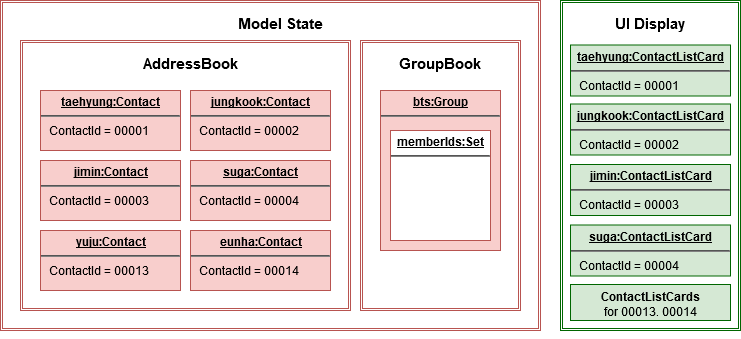
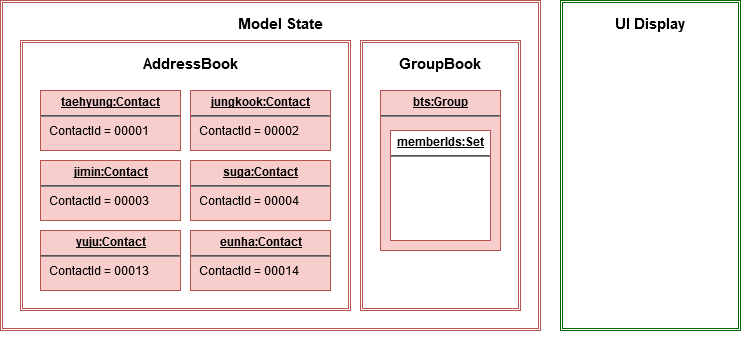
Rebuild pages at 908591f07c8498653067f03ff827a27aebe3cd36

Changed region(s): [[0.7449, 0.118, 0.9933, 0.944]]

diff --git a/DeveloperGuide.html b/DeveloperGuide.html
@@ -484,7 +484,7 @@ As an additional feature to be implemented in the future, we can store a <code>T
 <h3 id="Design-Storage"><a class="link" href="#Design-Storage">2.5. Storage component</a></h3>
 <div class="imageblock">
 <div class="content">
-<img src="images/StorageArchitectureDiagram.png" alt="StorageArchitectureDiagram">
+<img src="images/StorageClassDiagram.png" alt="StorageClassDiagram">
 </div>
 <div class="title">Figure 15. Structure of the Storage Component</div>
 </div>
@@ -777,8 +777,9 @@ would interact with <code>GroupCommand</code> and <code>GroupModel</code> state.
 <div class="paragraph">
 <p>The <code>GroupBook</code> model state now contains a <code>Group</code> instance for "BTS" with no members
  recorded as memberIds.
- A group with no members would not prompt the <code>UI</code> to display the contacts in the group
- while a group with members in it would cause <code>UI</code> to display all the contacts belonging
+Any command regarding <code>Group</code> would prompt the <code>UI</code> to display the contacts in the group.
+ A group with no members would cause the <code>UI</code> to be empty. As there are no contacts in the group.
+ While a group with members in it would cause <code>UI</code> to display all the contacts belonging
  to that group.</p>
 </div>
 <div class="paragraph">
@@ -798,7 +799,7 @@ would interact with <code>GroupCommand</code> and <code>GroupModel</code> state.
 </div>
 <div class="paragraph">
 <p>Step 4. The user realizes she has made a mistake adding a wrong contact and in a fit of rage
- chooses to delete the contact instead of merely removing from the Group.
+ chooses to delete the contact instead of merely removing the contact from the Group.
  Executing <code>contact delete --i 00013</code>
  which then deletes the <code>Contact</code> with contactId of 00013.
  However, this does not remove the contact&#8217;s id from
@@ -2053,4 +2054,4 @@ Expected: Similar to previous.</p>
 </div>
 </div>
 </div>
-</div></div><div id="footer"><div class="container"><div id="footer-text">Last updated 2019-10-26 18:41:18 UTC</div></div></div></body></html>
+</div></div><div id="footer"><div class="container"><div id="footer-text">Last updated 2019-10-27 13:12:36 UTC</div></div></div></body></html>

diff --git a/index.html b/index.html
@@ -5,7 +5,7 @@
 <div class="paragraph">
 <p><a href="https://travis-ci.org/AY1920S1-CS2103T-F12-3/main"><span class="image"><img src="https://travis-ci.org/AY1920S1-CS2103T-F12-3/main.svg?branch=master" alt="Build Status"></span></a>
 <a href="https://ci.appveyor.com/project/damithc/addressbook-level3"><span class="image"><img src="https://ci.appveyor.com/api/projects/status/3boko2x2vr5cc3w2?svg=true" alt="Build status"></span></a>
-<a href="https://coveralls.io/github/se-edu/addressbook-level3?branch=master"><span class="image"><img src="https://coveralls.io/repos/github/se-edu/addressbook-level3/badge.svg?branch=master" alt="Coverage Status"></span></a>
+<a href="https://coveralls.io/github/AY1920S1-CS2103T-F12-3/main?branch=master"><span class="image"><img src="https://coveralls.io/repos/github/AY1920S1-CS2103T-F12-3/main/badge.svg?branch=master" alt="Coverage Status"></span></a>
 <a href="https://www.codacy.com/app/damith/addressbook-level3?utm_source=github.com&amp;utm_medium=referral&amp;utm_content=se-edu/addressbook-level3&amp;utm_campaign=Badge_Grade"><span class="image"><img src="https://api.codacy.com/project/badge/Grade/fc0b7775cf7f4fdeaf08776f3d8e364a" alt="Codacy Badge"></span></a>
 <a href="https://gitter.im/se-edu/Lobby"><span class="image"><img src="https://badges.gitter.im/se-edu/Lobby.svg" alt="Gitter chat"></span></a></p>
 </div>
@@ -73,4 +73,4 @@ Want a CLI note-taking app befitting of the techie that you are?</p>
 <div class="sectionbody">
 
 </div>
-</div></div><div id="footer"><div class="container"><div id="footer-text">Last updated 2019-10-26 18:41:18 UTC</div></div></div></body></html>
+</div></div><div id="footer"><div class="container"><div id="footer-text">Last updated 2019-10-27 13:12:36 UTC</div></div></div></body></html>

diff --git a/ContactUs.html b/ContactUs.html
@@ -6,4 +6,4 @@
 <p><strong>Bug reports, Suggestions</strong> : Post in our <a href="https://github.com/AY1920S1-CS2103T-F12-3/main/issues">issue tracker</a> if you noticed bugs or have suggestions on how to improve.</p>
 </li>
 </ul>
-</div></div><div id="footer"><div class="container"><div id="footer-text">Last updated 2019-10-26 18:41:18 UTC</div></div></div></body></html>
+</div></div><div id="footer"><div class="container"><div id="footer-text">Last updated 2019-10-27 13:12:36 UTC</div></div></div></body></html>

diff --git a/tutorials/RemovingFields.html b/tutorials/RemovingFields.html
@@ -175,4 +175,4 @@ While keeping the <code>address</code> field in the json files does not cause th
 <p>You can go through each individual <code>json</code> file and manually remove the <code>address</code> field.</p>
 </div>
 </div>
-</div></div><div id="footer"><div class="container"><div id="footer-text">Last updated 2019-10-26 18:41:18 UTC</div></div></div></body></html>
+</div></div><div id="footer"><div class="container"><div id="footer-text">Last updated 2019-10-27 13:12:36 UTC</div></div></div></body></html>

diff --git a/Testing.html b/Testing.html
@@ -90,4 +90,4 @@ e.g. <code>seedu.address.logic.LogicManagerTest</code></p>
 <div class="title">Figure 1. <code>Accessibility</code> permission is granted to <code>IntelliJ IDEA</code></div>
 </div>
 </div>
-</div></div><div id="footer"><div class="container"><div id="footer-text">Last updated 2019-10-26 18:41:18 UTC</div></div></div></body></html>
+</div></div><div id="footer"><div class="container"><div id="footer-text">Last updated 2019-10-27 13:12:36 UTC</div></div></div></body></html>

diff --git a/tutorials/AddRemark.html b/tutorials/AddRemark.html
@@ -616,4 +616,4 @@ In this case, <code>CommandTestUtil#assertCommandSuccess</code> is the best fit 
 <p>This concludes the tutorial for adding a new <code>Command</code> to AddressBook.</p>
 </div>
 </div>
-</div></div><div id="footer"><div class="container"><div id="footer-text">Last updated 2019-10-26 18:41:18 UTC</div></div></div></body></html>
+</div></div><div id="footer"><div class="container"><div id="footer-text">Last updated 2019-10-27 13:12:36 UTC</div></div></div></body></html>

diff --git a/AboutUs.html b/AboutUs.html
@@ -154,4 +154,4 @@ We are a team based in the <a href="http://www.comp.nus.edu.sg">School of Comput
 </div>
 </div>
 </div>
-</div></div><div id="footer"><div class="container"><div id="footer-text">Last updated 2019-10-26 18:41:18 UTC</div></div></div></body></html>
+</div></div><div id="footer"><div class="container"><div id="footer-text">Last updated 2019-10-27 13:12:36 UTC</div></div></div></body></html>

diff --git a/LearningOutcomes.html b/LearningOutcomes.html
@@ -474,4 +474,4 @@ of storages, but different number of storages (e.g. save to both a text file and
 </div>
 </div>
 </div>
-</div></div><div id="footer"><div class="container"><div id="footer-text">Last updated 2019-10-26 18:41:18 UTC</div></div></div></body></html>
+</div></div><div id="footer"><div class="container"><div id="footer-text">Last updated 2019-10-27 13:12:36 UTC</div></div></div></body></html>

diff --git a/SettingUp.html b/SettingUp.html
@@ -180,4 +180,4 @@ Having both Travis and AppVeyor ensures your App works on both Unix-based platfo
 </div>
 </div>
 </div>
-</div></div><div id="footer"><div class="container"><div id="footer-text">Last updated 2019-10-26 18:41:18 UTC</div></div></div></body></html>
+</div></div><div id="footer"><div class="container"><div id="footer-text">Last updated 2019-10-27 13:12:36 UTC</div></div></div></body></html>

diff --git a/UsingCoveralls.html b/UsingCoveralls.html
@@ -111,4 +111,4 @@ If you have not set up Travis CI, see <a href="UsingTravis.html">UsingTravis.ado
 </ol>
 </div>
 </div>
-</div></div><div id="footer"><div class="container"><div id="footer-text">Last updated 2019-10-26 18:41:18 UTC</div></div></div></body></html>
+</div></div><div id="footer"><div class="container"><div id="footer-text">Last updated 2019-10-27 13:12:36 UTC</div></div></div></body></html>

diff --git a/UsingGradle.html b/UsingGradle.html
@@ -228,4 +228,4 @@ See <code>build.gradle</code> &#8594; <code>allprojects</code> &#8594; <code>dep
 </ul>
 </div>
 </div>
-</div></div><div id="footer"><div class="container"><div id="footer-text">Last updated 2019-10-26 18:41:18 UTC</div></div></div></body></html>
+</div></div><div id="footer"><div class="container"><div id="footer-text">Last updated 2019-10-27 13:12:36 UTC</div></div></div></body></html>

diff --git a/UsingNetlify.html b/UsingNetlify.html
@@ -138,4 +138,4 @@ The publish directory is the directory in which the built HTML documentation res
 </ol>
 </div>
 </div>
-</div></div><div id="footer"><div class="container"><div id="footer-text">Last updated 2019-10-26 18:41:18 UTC</div></div></div></body></html>
+</div></div><div id="footer"><div class="container"><div id="footer-text">Last updated 2019-10-27 13:12:36 UTC</div></div></div></body></html>
